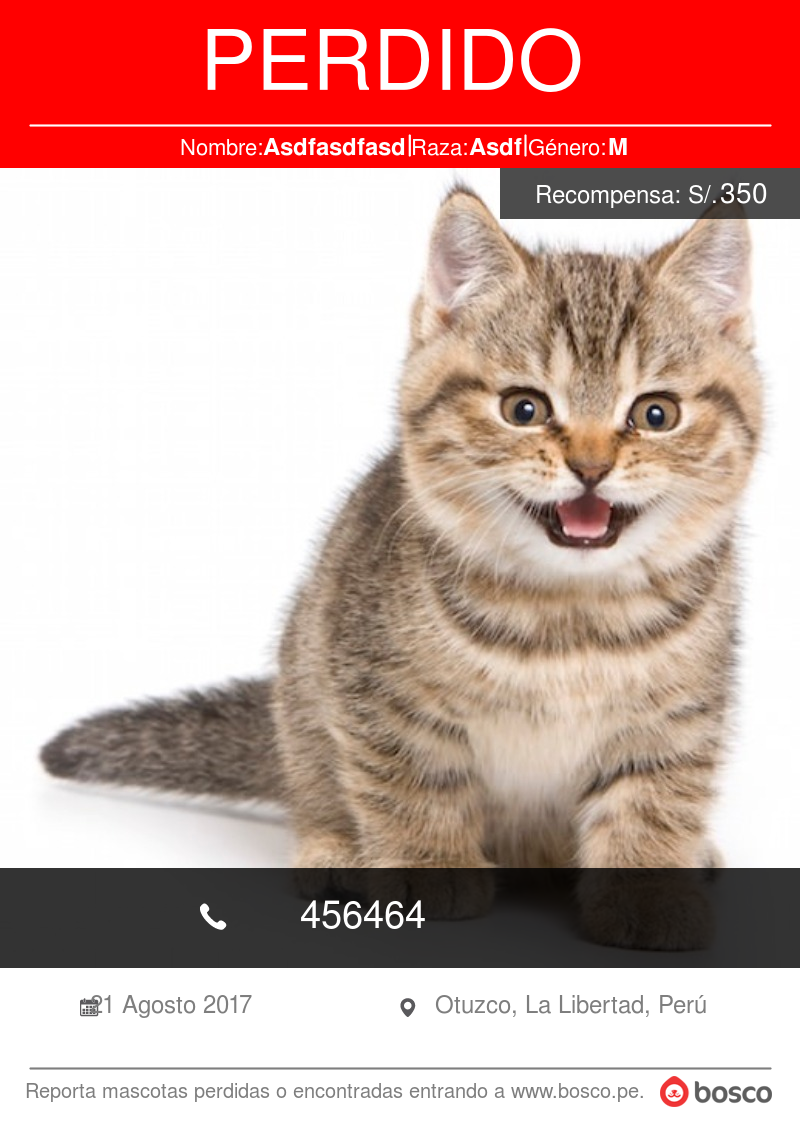
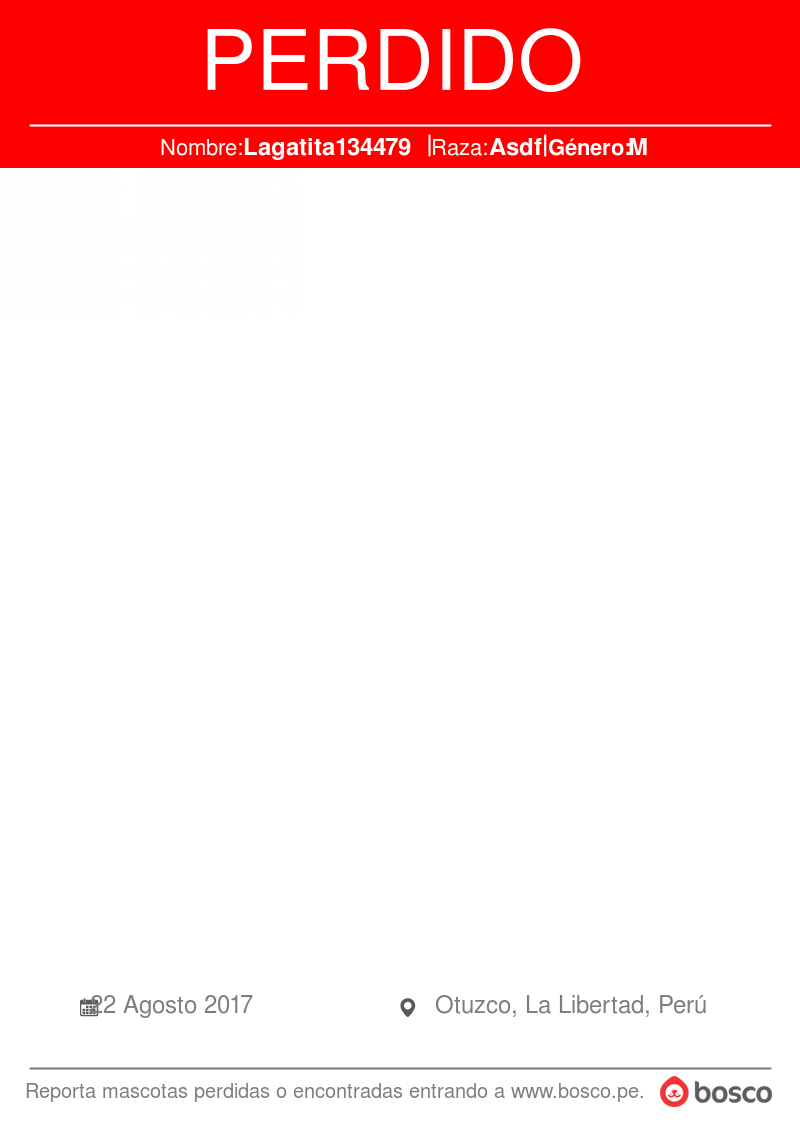
hotfix editar

diff --git a/public/js/bosco.js b/public/js/bosco.js
@@ -2006,7 +2006,18 @@ function edit_pet_detail(id, status)
                 var pac_html = "<input type='text' id='pac-input'></input>";
                 $("#pac-input-div").html(pac_html);
                 $("#lost_pet_file").parent().hide();
-                $(".upload-image-lost-preview").show();
+                $(".upload-image-lost-preview").show(); 
+                var canvas = document.createElement('canvas');
+                var ctx = canvas.getContext("2d");
+                
+                var img = new Image();
+                img.src = '/images/pets/' + data.pet.pet_image;
+                img.onload = function () {
+                    img_width = img.width;
+                    img_height = img.height;
+                    ctx.drawImage(img, 0, 0, img_width, img_height);
+                    datosimg = canvas.toDataURL("image/jpeg");
+                }                                             
                 $('.upload-image-lost-preview .preview-img').attr('style', 'background-image:url("/images/pets/' + data.pet.pet_image + '")');
                 $('#lost_pet_name').val(data.pet.pet_name);
                 $('#lost_pet_race').val(data.pet.pet_race);
@@ -2028,8 +2039,8 @@ function edit_pet_detail(id, status)
                 $('#pac-postal_code').val(data.pet.ubigeo_code);
                 latitude = parseFloat(data.pet.location_latitude);
                 longitude = parseFloat(data.pet.location_longitude);
-                $('#pac-latitude').val(latitude);
-                $('#pac-longitude').val(longitude);
+                $('#lat').val(latitude);
+                $('#lng').val(longitude);
                 $('#lost_pet_report_description').val(data.pet.report_description);
                 $('#lost_pet_reward').val(data.pet.owner_reward);
                 $('#lost_pet_contact_phone').val(data.pet.owner_phone);

diff --git a/app/Http/Controllers/ReportsController.php b/app/Http/Controllers/ReportsController.php
@@ -122,8 +122,9 @@ class ReportsController extends Controller {
         $contact_phone = $request->get('lost_pet_contact_name');
         $contact_email = $request->get('lost_pet_contact_email');
         $date = $request->get('lost_pet_date');
-        $date=date("Y-m-d", strtotime($date));
+        $date=date("Y-m-d", strtotime($date));                
         $time = $request->get('lost_pet_time');
+        
 //        $url = $request->get('filename');
         $img = $request->get('pngimageData');
         $user_id = Auth::user()->id;
@@ -435,6 +436,7 @@ class ReportsController extends Controller {
             $correccion = $largoTotal/2 - $centroActual;
             $valorCorreccion = $correccion * $metricaCaracter;
             $im = new Imagick("images/pets/".$report->pet_id.".jpg");
+            $im->setImageFormat("jpg");
             $lienzo = new Imagick();
             $lienzo->newImage(800, 1136, "none");
             $headerLienzo = new Imagick();
@@ -616,7 +618,7 @@ class ReportsController extends Controller {
             $lienzo->compositeimage($headerLienzo->getimage(), Imagick::COMPOSITE_COPY, 0, 0);
             $lienzo->compositeimage($im->getimage(), Imagick::COMPOSITE_COPY, 0, 168);
             $lienzo->compositeimage($footerLienzo->getimage(), Imagick::COMPOSITE_COPY, 0, 968);
-            $lienzo->writeimage("images/pets/report_".$pet_id.".png");
+            $lienzo->writeimage("images/pets/report_".$report->pet_id.".png");
             $lienzo->destroy();
 
             //fin logica del lienzo
@@ -636,8 +638,14 @@ class ReportsController extends Controller {
                 'updated_at' =>Date('Y-m-d H:i:s')
             ];        
             $result = \App\Location::where('id',$report->last_location_id)->update($location_data);
-            $report_data = [
-                'date' =>date_format(\DateTime::createFromFormat("Y-m-d H:i a", $date." ".$time), "Y-m-d H:i"),
+            $lafecha = "";
+            if (strrpos($time, "am") === false && strrpos($time, "pm") === false) {
+                $lafecha = \DateTime::createFromFormat("Y-m-d H:i:s", $date." ".$time);
+            } else {
+                $lafecha = \DateTime::createFromFormat("Y-m-d H:i a", $date." ".$time);
+            }
+            $report_data = [                
+                'date' =>date_format($lafecha, "Y-m-d H:i"),
 //                'last_location_id' => $location_id,
                 'reward' => $reward,
                 'description' => $report_description,
